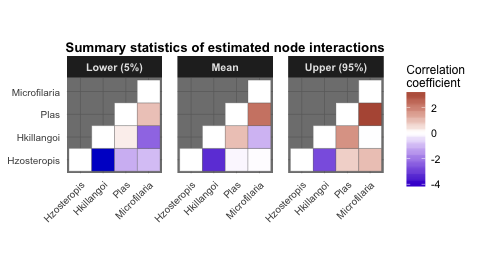
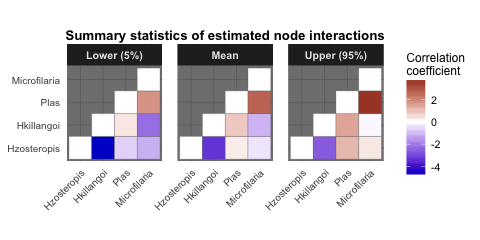
Updated readme doc

diff --git a/README.md b/README.md
@@ -20,7 +20,7 @@ Usage
 
 Markov random fields interaction parameters are approximated using separate regressions for individual nodes (species) within a joint modelling framework. Because all combinations of covariates and additional nodes are included as predictor variables in node-specific regressions, variable selection is required to reduce overfitting and add sparsity. This is accomplished through LASSO penalization using functions in the [penalized](https://cran.r-project.org/web/packages/penalized/index.html) package
 
-Load the `Bird.parasites` dataset, which contains binary occurrences of four avian blood parasites in New Caledonian *Zosterops* species. A single continuous covariate is also included (`scale.prop.zos`), which reflects the relative abundance of *Zosterops* species among different sample sites
+Load the `Bird.parasites` dataset, which contains binary occurrences of four avian blood parasites in New Caledonian *Zosterops* species ([available in its original form at Dryad](http://dx.doi.org/10.5061/dryad.pp6k4); Clark *et al* 2016). A single continuous covariate is also included (`scale.prop.zos`), which reflects the relative abundance of *Zosterops* species among different sample sites
 
 ``` r
 data("Bird.parasites")
@@ -60,7 +60,7 @@ plotMRF_hm_cont(MRF_mod = MRF_mod, covariate = 'scale.prop.zos', data = Bird.par
 
 ### Choosing penalization parameters
 
-Choosing the appropriate `lambda1` value often requires exploration of model predictive performance at different values. The function `cv_MRF_diag` uses cross-validation to examine how well models fitted with training datasets can predict observations that have been with-held from the data (test datasets) at different `lambda1` values. We also have the option of specifying `lambda2`, where values `>0` lead to more effective shrinkage of coefficients (sometimes this is necessary for large datasets with many potential predictors; see documentation in the `penalized` package for more details). Given the large number of models that may be required during cross-validation or bootstrapping (see below), we can use parallel computation by relying on functions in the [parallel](https://cran.r-project.org/web/packages/parallel/index.html) package. The number of worker clusters to split the job across can be specified using the `n_cores` argument
+Choosing the appropriate `lambda1` value often requires exploration of model predictive performance at different values. The function `cv_MRF_diag` uses cross-validation to examine how well models fitted with training datasets can predict observations that have been with-held from the data (test datasets) at different `lambda1` values. We also have the option of specifying `lambda2`, where values `>0` lead to more effective shrinkage of coefficients (sometimes this is necessary for large datasets with many potential predictors; see documentation in the `penalized` package for more details). Given the large number of models that may be required during cross-validation or bootstrapping (see below), we can use parallel computation by relying on functions in the [parallel](https://www.google.com.au/url?sa=t&rct=j&q=&esrc=s&source=web&cd=2&cad=rja&uact=8&ved=0ahUKEwj6iZyPvcnYAhVLvrwKHaJ9AhUQFgg2MAE&url=https%3A%2F%2Fstat.ethz.ch%2FR-manual%2FR-devel%2Flibrary%2Fparallel%2Fdoc%2Fparallel.pdf&usg=AOvVaw2eR83aL93jttPIS-mLWzEL) package. The number of worker clusters to split the job across can be specified using the `n_cores` argument
 
 ``` r
 cv_MRF_diag(data = Bird.parasites, min_lambda1 = 0.4, max_lambda1 = 2, by_lambda1 = 0.1, n_nodes = 4, n_cores = 3)
@@ -91,50 +91,52 @@ Finally, we can explore regression coefficients to get a better understanding of
 ``` r
 booted_MRF$mean_key_coefs$Hzosteropis
 #>                      Variable Rel_importance  Mean_coef
-#> 1                  Hkillangoi     0.66142265 -3.2023939
-#> 7 scale.prop.zos_Microfilaria     0.10023894 -1.2466756
-#> 3                Microfilaria     0.09793086  1.2322392
-#> 4              scale.prop.zos     0.05831968 -0.9509174
-#> 2                        Plas     0.03321934 -0.7176798
-#> 5   scale.prop.zos_Hkillangoi     0.02551495 -0.6289738
-#> 6         scale.prop.zos_Plas     0.02335357  0.6017442
+#> 1                  Hkillangoi     0.67197849 -3.2661095
+#> 7 scale.prop.zos_Microfilaria     0.11870593 -1.3727431
+#> 4              scale.prop.zos     0.06593273 -1.0230659
+#> 3                Microfilaria     0.06179476  0.9904416
+#> 6         scale.prop.zos_Plas     0.04735949  0.8670748
+#> 2                        Plas     0.01807517 -0.5356662
+#> 5   scale.prop.zos_Hkillangoi     0.01615343 -0.5063904
 ```
 
 ``` r
 booted_MRF$mean_key_coefs$Hkillangoi
 #>                     Variable Rel_importance  Mean_coef
-#> 1                Hzosteropis     0.68651100 -3.2023939
-#> 5        scale.prop.zos_Plas     0.12971851  1.3920409
-#> 2               Microfilaria     0.10424702 -1.2479087
-#> 3             scale.prop.zos     0.04955688 -0.8604051
-#> 4 scale.prop.zos_Hzosteropis     0.02648276 -0.6289738
+#> 1                Hzosteropis     0.71179444 -3.2661095
+#> 2               Microfilaria     0.11248360 -1.2983688
+#> 5        scale.prop.zos_Plas     0.09947298  1.2209729
+#> 3             scale.prop.zos     0.05496011 -0.9075640
+#> 4 scale.prop.zos_Hzosteropis     0.01711055 -0.5063904
 ```
 
 ``` r
 booted_MRF$mean_key_coefs$Plas
 #>                      Variable Rel_importance  Mean_coef
-#> 2                Microfilaria     0.41207892  1.8388337
-#> 5   scale.prop.zos_Hkillangoi     0.23615625  1.3920409
-#> 3              scale.prop.zos     0.17128449 -1.1855265
-#> 6 scale.prop.zos_Microfilaria     0.06957283  0.7555654
-#> 1                 Hzosteropis     0.06277069 -0.7176798
-#> 4  scale.prop.zos_Hzosteropis     0.04412851  0.6017442
+#> 2                Microfilaria     0.48146621  2.1046078
+#> 5   scale.prop.zos_Hkillangoi     0.16204495  1.2209729
+#> 3              scale.prop.zos     0.15160360 -1.1809813
+#> 6 scale.prop.zos_Microfilaria     0.08708085  0.8950547
+#> 4  scale.prop.zos_Hzosteropis     0.08172155  0.8670748
+#> 1                 Hzosteropis     0.03118976 -0.5356662
 ```
 
 ``` r
 booted_MRF$mean_key_coefs$Microfilaria
 #>                     Variable Rel_importance  Mean_coef
-#> 3                       Plas     0.33714702  1.8388337
-#> 2                 Hkillangoi     0.15527448 -1.2479087
-#> 5 scale.prop.zos_Hzosteropis     0.15496775 -1.2466756
-#> 1                Hzosteropis     0.15139950  1.2322392
-#> 4             scale.prop.zos     0.14237979 -1.1949699
-#> 6        scale.prop.zos_Plas     0.05692179  0.7555654
+#> 3                       Plas     0.39805468  2.1046078
+#> 5 scale.prop.zos_Hzosteropis     0.16934756 -1.3727431
+#> 2                 Hkillangoi     0.15149437 -1.2983688
+#> 4             scale.prop.zos     0.11936954 -1.1525150
+#> 1                Hzosteropis     0.08815727  0.9904416
+#> 6        scale.prop.zos_Plas     0.07199454  0.8950547
 ```
 
 References
 ----------
 
-Cheng, J., Levina, E., Wang, P. & Zhu, J. (2014). A sparse Ising model with covariates. Biometrics, 70, 943-953
+Cheng, J., Levina, E., Wang, P. & Zhu, J. (2014). A sparse Ising model with covariates. *Biometrics* 70:943-953.
+
+Clark, N.J., K. Wells, D. Dimitrov, and S.M. Clegg. 2016. Co-infections and environmental conditions drive the distributions of blood parasites in wild birds. *Journal of Animal Ecology* 85:1461-1470.
 
 Lindberg, O. (2016). Markov Random Fields in Cancer Mutation Dependencies. Master's of Science Thesis. University of Turku, Turku, Finland.
